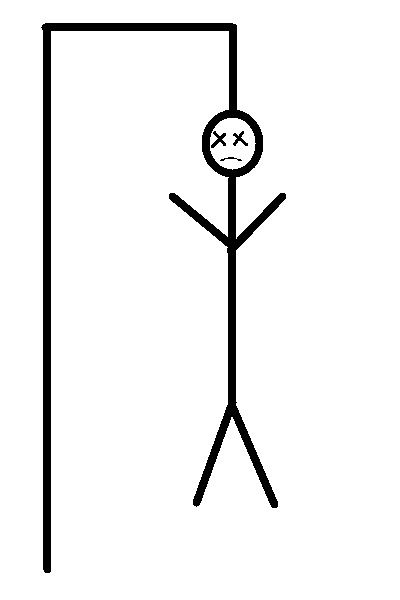
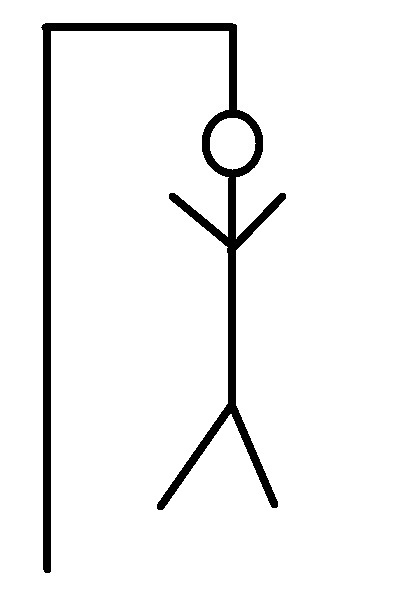
More functionality, fixed 1 missing image.

Changed region(s): [[0.39, 0.69, 0.6, 0.87], [0.54, 0.21, 0.63, 0.27]]

diff --git a/src/components/Hangman.js b/src/components/Hangman.js
@@ -9,11 +9,12 @@ import img3 from './images/step3.jpg'
 import img4 from './images/step4.jpg'
 import img5 from './images/step5.jpg'
 import img6 from './images/step6.jpg'
+import img7 from './images/step7.jpg'
 
 class Hangman extends Component {
     static defaultProps = {
         maxMistakeNum: 7,
-        images: [img0, img1, img2, img3, img4, img5, img6]
+        images: [img0, img1, img2, img3, img4, img5, img6, img7]
     }
 
     constructor(props) {
@@ -24,12 +25,50 @@ class Hangman extends Component {
             answer: randomWord()
         }
     }
+    handleGuess = e => {
+        let letter = e.target.value;
+        this.setState(st => ({
+            guessed: st.guessed.add(letter),
+            mistakeNum: st.mistakeNum + (st.answer.includes(letter) ? 0 : 1)
+        }))
+    }
     guessedWord() {
         return (this.state.answer.split("").map(letter => (this.state.guessed.has(letter) ? letter : " _ ")))
         // If the letter has been guessed correctly, show it. Otherwise, show an underscore.
     }
+    generateButtons() {
+        return "abcdefghijklmnopqrstuvwxyz".split("").map(letter => (
+            <button
+                class='btn btn-lg btn-primary m-2'
+                key={letter}
+                value={letter}
+                onClick={this.handleGuess}
+                disabled={this.state.guessed.has(letter)}
+            >
+                {letter}
+            </button>)
+        )
+        // Creates a button for every single letter in the Latin alphabet.
+    }
+    resetButton = () => {
+        this.setState({
+            mistakeNum: 0,
+            guessed: new Set([]),
+            answer: randomWord()
+        });
+    }
+
     render() {
         const gameOver = this.state.mistakeNum >= this.props.maxMistakeNum;
+        const isWinner = this.guessedWord().join("") === this.state.answer;
+        let gameStat = this.generateButtons();
+
+        if (isWinner) {
+            gameStat = "You won!"
+        }
+        if (gameOver) {
+            gameStat = "You lost!"
+        }
         return (
             <div className="Hangman container">
                 <h1 className="text-center">Hangman</h1>
@@ -39,10 +78,12 @@ class Hangman extends Component {
                 <div className="text-center">
                     <p>Mystery Word:</p>
                     <p>{!gameOver ? this.guessedWord() : this.state.answer}</p>
+                    <p>{gameStat}</p>
+                    <button className="btn btn-info" onClick={this.resetButton}>Reset</button>
                 </div>
             </div>
         )
     }
-}
+};
 
 export default Hangman;
